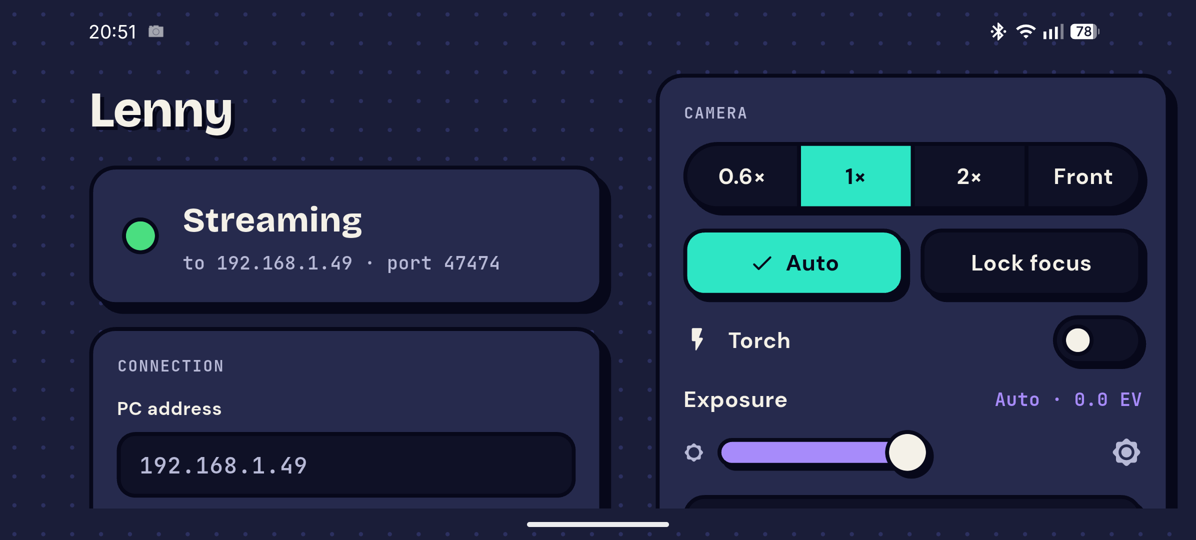
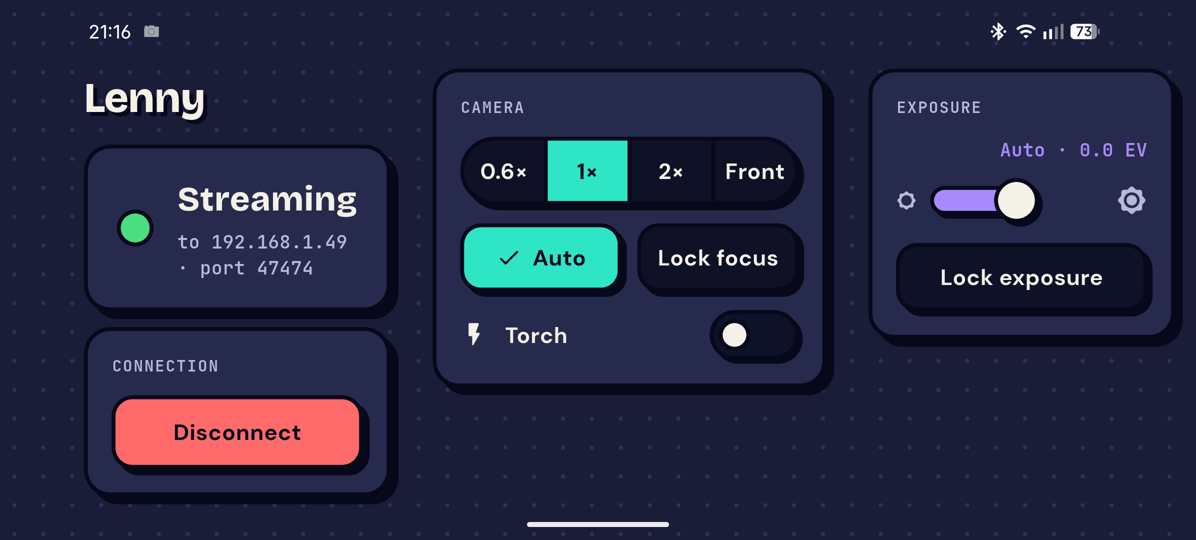
fix(ui): phone landscape fits without scrolling
Three columns while streaming (status | camera | exposure), two while idle (find | type).

diff --git a/app/lib/ui/screens/sender_screen.dart b/app/lib/ui/screens/sender_screen.dart
@@ -68,27 +68,24 @@ class _SenderScreenState extends ConsumerState<SenderScreen> {
             final title = Text(Brand.appName, style: LennyTokens.wordmark(32));
             final hero = _StatusHero(state: s);
             // While connected the hero already shows where to; the fields only matter before connecting.
-            final connection = StickerCard(label: 'Connection', children: [
-                  if (!s.active) StickerField(
-                    label: 'PC address',
-                    controller: _host,
-                    enabled: !s.active,
-                    hint: '192.168.x.x',
-                    keyboardType: TextInputType.url,
-                    textInputAction: TextInputAction.next,
-                  ),
-                  if (!s.active) StickerField(
-                    label: 'Port',
-                    controller: _port,
-                    enabled: !s.active,
-                    keyboardType: TextInputType.number,
-                    textInputAction: TextInputAction.go,
-                    onSubmitted: (_) => _connect(),
-                  ),
-                  s.active
-                      ? StickerButton(label: 'Disconnect', kind: ButtonKind.destructive, onPressed: ctl.disconnect)
-                      : StickerButton(label: 'Connect', kind: ButtonKind.primary, onPressed: _connect),
-                  if (!s.active) ...[
+            final manual = [
+              StickerField(
+                label: 'PC address',
+                controller: _host,
+                hint: '192.168.x.x',
+                keyboardType: TextInputType.url,
+                textInputAction: TextInputAction.next,
+              ),
+              StickerField(
+                label: 'Port',
+                controller: _port,
+                keyboardType: TextInputType.number,
+                textInputAction: TextInputAction.go,
+                onSubmitted: (_) => _connect(),
+              ),
+              StickerButton(label: 'Connect', kind: ButtonKind.primary, onPressed: _connect),
+            ];
+            final quick = [
                     Row(children: [
                       Expanded(
                         child: StickerButton(
@@ -114,28 +111,44 @@ class _SenderScreenState extends ConsumerState<SenderScreen> {
                         )
                       else
                         for (final pc in found) _FoundPc(pc: pc, onTap: () => _connectTo(pc)),
-                  ],
-                ]);
-            final camera = !streaming
-                ? null
-                : StickerCard(label: 'Camera', children: [
-                    if (s.caps.hasLenses) LensPicker(caps: s.caps, controls: s.controls, onCommand: ctl.command),
-                    FocusButtons(caps: s.caps, controls: s.controls, onCommand: ctl.command),
-                    if (s.caps.hasTorch) TorchRow(controls: s.controls, onCommand: ctl.command),
-                    if (s.caps.hasExposure)
-                      ExposureSlider(caps: s.caps, controls: s.controls, onCommand: ctl.command, title: 'Exposure'),
-                    if (s.caps.has(LENNY_CAP_EXPOSURE_LOCK))
-                      ExposureLockToggle(controls: s.controls, onCommand: ctl.command),
-                  ]);
+            ];
+            final connection = StickerCard(
+              label: 'Connection',
+              children: s.active
+                  ? [StickerButton(label: 'Disconnect', kind: ButtonKind.destructive, onPressed: ctl.disconnect)]
+                  : [...manual, ...quick],
+            );
+            final lensFocus = [
+              if (s.caps.hasLenses) LensPicker(caps: s.caps, controls: s.controls, onCommand: ctl.command),
+              FocusButtons(caps: s.caps, controls: s.controls, onCommand: ctl.command),
+              if (s.caps.hasTorch) TorchRow(controls: s.controls, onCommand: ctl.command),
+            ];
+            List<Widget> exposure({String? title}) => [
+              if (s.caps.hasExposure)
+                ExposureSlider(caps: s.caps, controls: s.controls, onCommand: ctl.command, title: title),
+              if (s.caps.has(LENNY_CAP_EXPOSURE_LOCK)) ExposureLockToggle(controls: s.controls, onCommand: ctl.command),
+            ];
             const gap = SizedBox(height: 12);
             Widget column(List<Widget> children) => ListView(padding: const EdgeInsets.all(16), children: children);
-            // Landscape: status + connection left, camera controls right, instead of one thin centered strip.
-            if (o == Orientation.landscape) {
+            // Landscape: status | camera | exposure, so nothing scrolls on a phone held sideways.
+            if (o == Orientation.landscape && !s.active) {
               return Row(crossAxisAlignment: CrossAxisAlignment.stretch, children: [
-                Expanded(child: column([title, gap, hero, gap, connection])),
-                if (camera != null) Expanded(child: column([camera])),
+                Expanded(child: column([title, gap, hero, gap, StickerCard(label: 'Find your PC', children: quick)])),
+                Expanded(child: column([StickerCard(label: 'Or type it', children: manual)])),
               ]);
             }
+            if (o == Orientation.landscape) {
+              return Row(crossAxisAlignment: CrossAxisAlignment.stretch, children: [
+                Expanded(flex: 4, child: column([title, gap, hero, gap, connection])),
+                if (streaming) ...[
+                  // The middle column is a bit wider so "Lock focus" isn't cut off.
+                  Expanded(flex: 5, child: column([StickerCard(label: 'Camera', children: lensFocus)])),
+                  if (exposure().isNotEmpty)
+                    Expanded(flex: 4, child: column([StickerCard(label: 'Exposure', children: exposure())])),
+                ],
+              ]);
+            }
+            final camera = streaming ? StickerCard(label: 'Camera', children: [...lensFocus, ...exposure(title: 'Exposure')]) : null;
             return Center(
               child: ConstrainedBox(
                 constraints: const BoxConstraints(maxWidth: 480),
